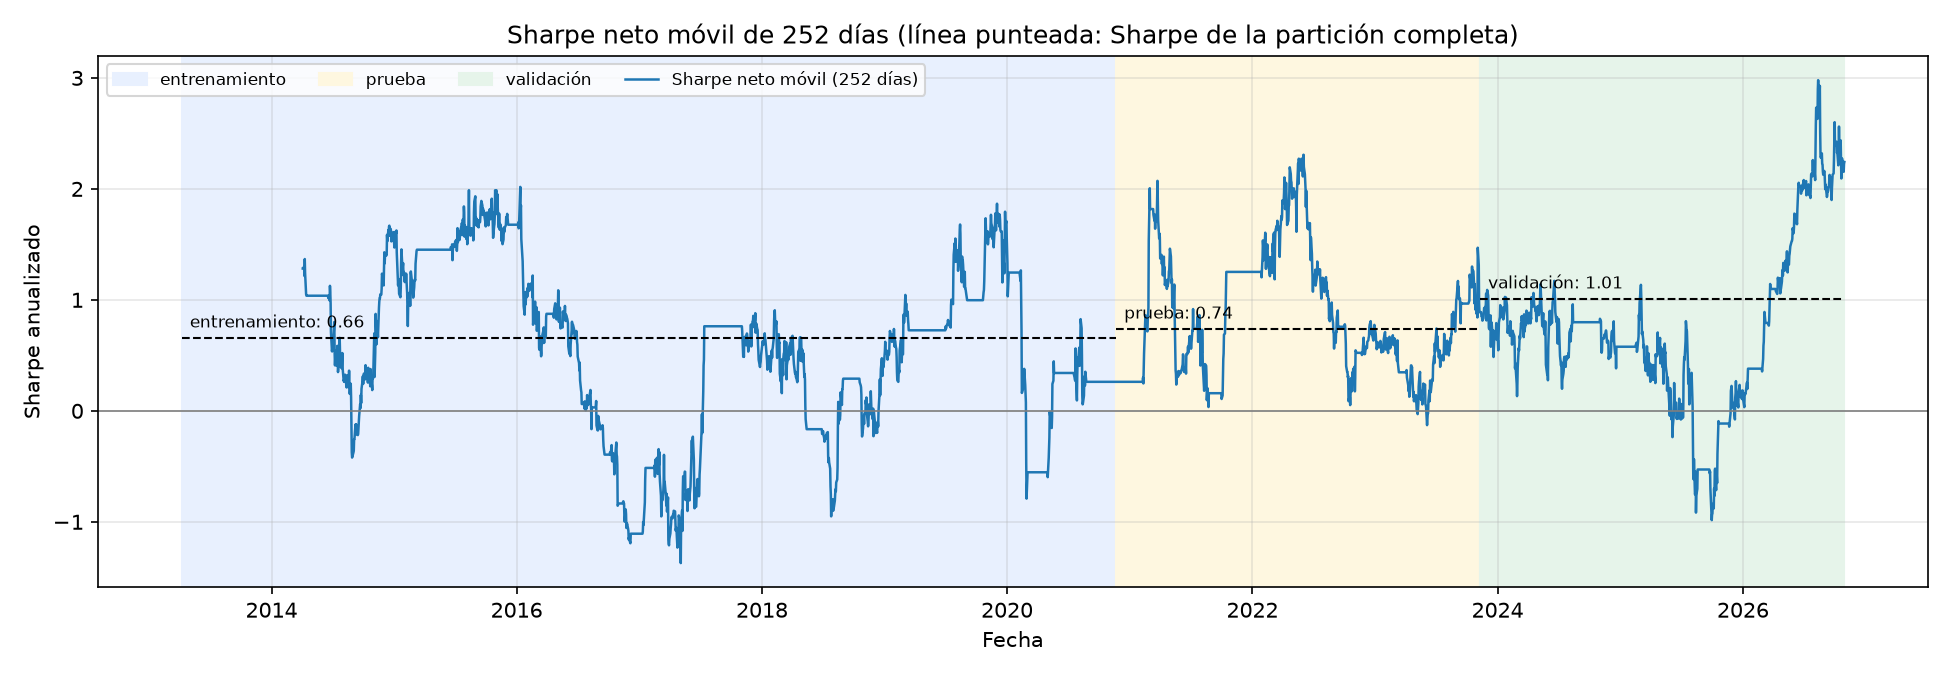
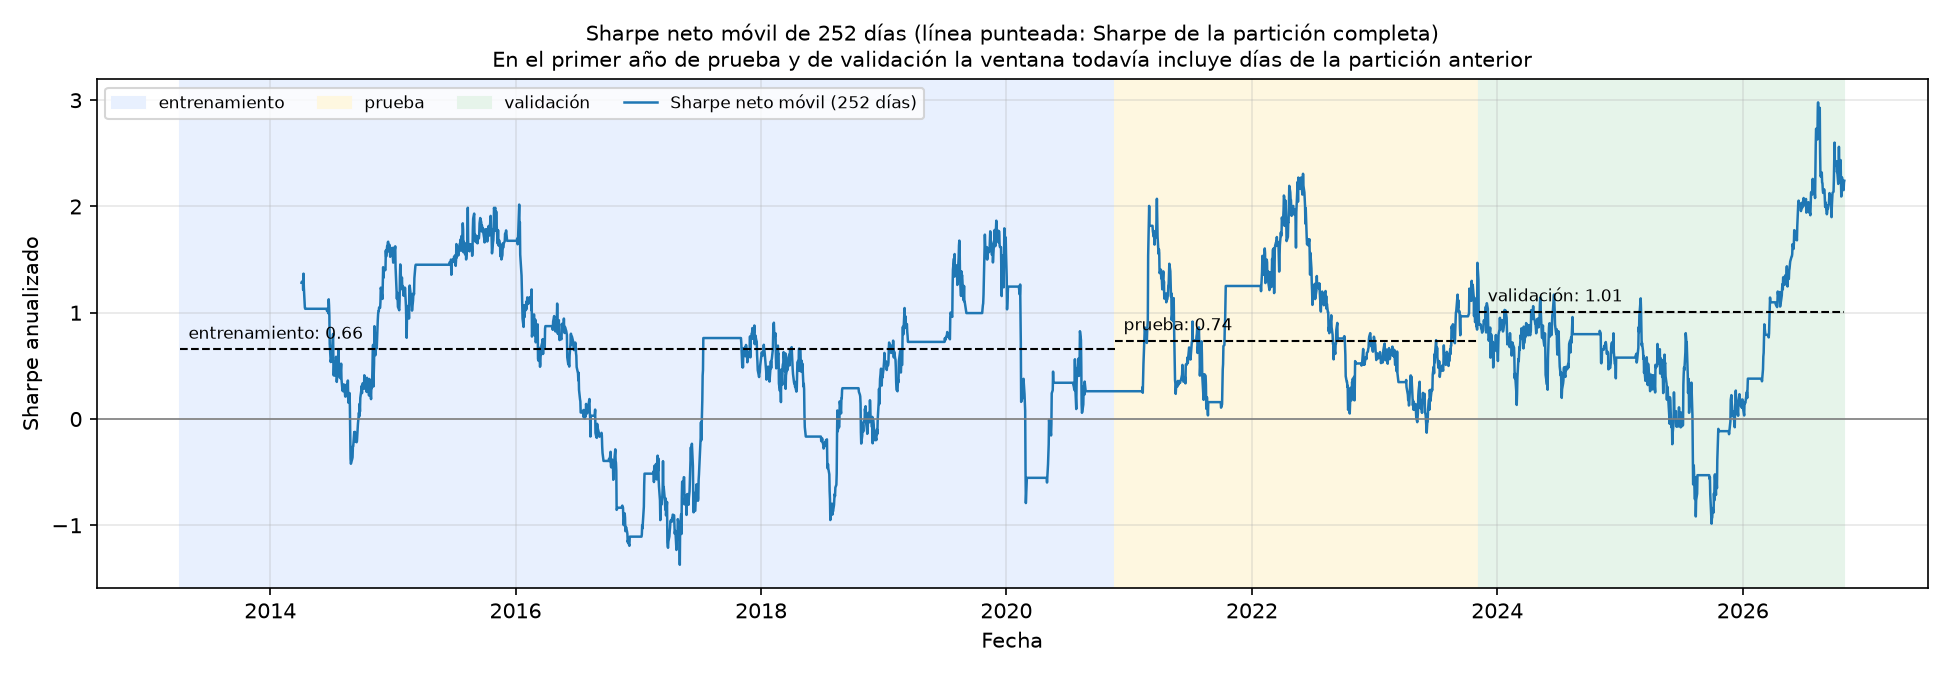
docs(metricas): aclarar que el Sharpe móvil cruza el inicio de cada partición
En el primer año de prueba y de validación la ventana de 252 días todavía incluye días de la partición
anterior. Se indica en el panel 7 del dashboard, en la figura sharpe_movil.png y en la guía del README.

diff --git a/performance/figures.py b/performance/figures.py
@@ -395,7 +395,8 @@ def plot_rolling_sharpe(rolling: pd.Series, split: pd.Series, full_sample: dict,
     """Sharpe neto móvil de 252 días sobre toda la muestra, con las particiones sombreadas.
 
     Parámetros:
-        rolling: `rolling_sharpe_252` (`performance.metrics.rolling_sharpe` sobre los rendimientos encadenados).
+        rolling: `rolling_sharpe_252` (`performance.metrics.rolling_sharpe` sobre los rendimientos encadenados). La
+            ventana cruza el inicio de cada partición: sus primeros 251 valores mezclan días de la anterior.
         split: partición de cada fecha.
         full_sample: {partición: Sharpe neto de la partición completa}, se dibuja como referencia horizontal.
         path: si se da, guarda la figura (PNG).
@@ -411,7 +412,9 @@ def plot_rolling_sharpe(rolling: pd.Series, split: pd.Series, full_sample: dict,
     ax.axhline(0, color="tab:gray", linewidth=0.8)
     ax.set_xlabel("Fecha")
     ax.set_ylabel("Sharpe anualizado")
-    ax.set_title("Sharpe neto móvil de 252 días (línea punteada: Sharpe de la partición completa)")
+    ax.set_title("Sharpe neto móvil de 252 días (línea punteada: Sharpe de la partición completa)\n"
+                 "En el primer año de prueba y de validación la ventana todavía incluye días de la partición anterior",
+                 fontsize=10)
     ax.legend(fontsize=8, loc="upper left", ncol=4)
     ax.grid(alpha=0.3)
     fig.tight_layout()

diff --git a/dashboard/technical.py b/dashboard/technical.py
@@ -221,5 +221,6 @@ def render(data: dict, start: pd.Timestamp, end: pd.Timestamp) -> None:
         eigenvector_panel(data, start, end)
         theme.panel_title(6, "Varianza posterior", "diagonal de P_t|t en escala log (incertidumbre de cada estado)")
         variance_panel(data, start, end)
-    theme.panel_title(7, "Sharpe móvil 252 días", "punteado: Sharpe de la partición completa")
+    theme.panel_title(7, "Sharpe móvil 252 días", "punteado: Sharpe de la partición completa; en el primer año de TEST "
+                      "y de VALID la ventana todavía incluye días de la partición anterior")
     rolling_sharpe_panel(data, start, end)

diff --git a/README.md b/README.md
@@ -81,7 +81,7 @@ z, posición (▲ largo / ▼ corto / ■ plano), β̂ actuales, θ y métricas 
 | 4) Eigenvector de Johansen móvil | β̃ por ventana de 504 días y la razón traza / crítico | arriba de 1 la ventana rechaza r = 0; los saltos de β̃ aparecen cuando no hay cointegración |
 | 5) Ganancia de Kalman | K_t del filtro 1 (c y pesos) y del filtro 2 (μ y x) | ganancias pequeñas = el filtro confía en su estado y se mueve despacio |
 | 6) Varianza posterior | diagonal de P_t\|t de ambos filtros (escala log) | crece si el filtro se vuelve más incierto |
-| 7) Sharpe móvil 252 días | Sharpe neto de un año contra el de cada partición completa | un año con un stop basta para volverlo negativo |
+| 7) Sharpe móvil 252 días | Sharpe neto de un año contra el de cada partición completa | un año con un stop basta para volverlo negativo; en el primer año de prueba y de validación la ventana todavía incluye días de la partición anterior |
 
 ## Uso de asistencia de IA
 
